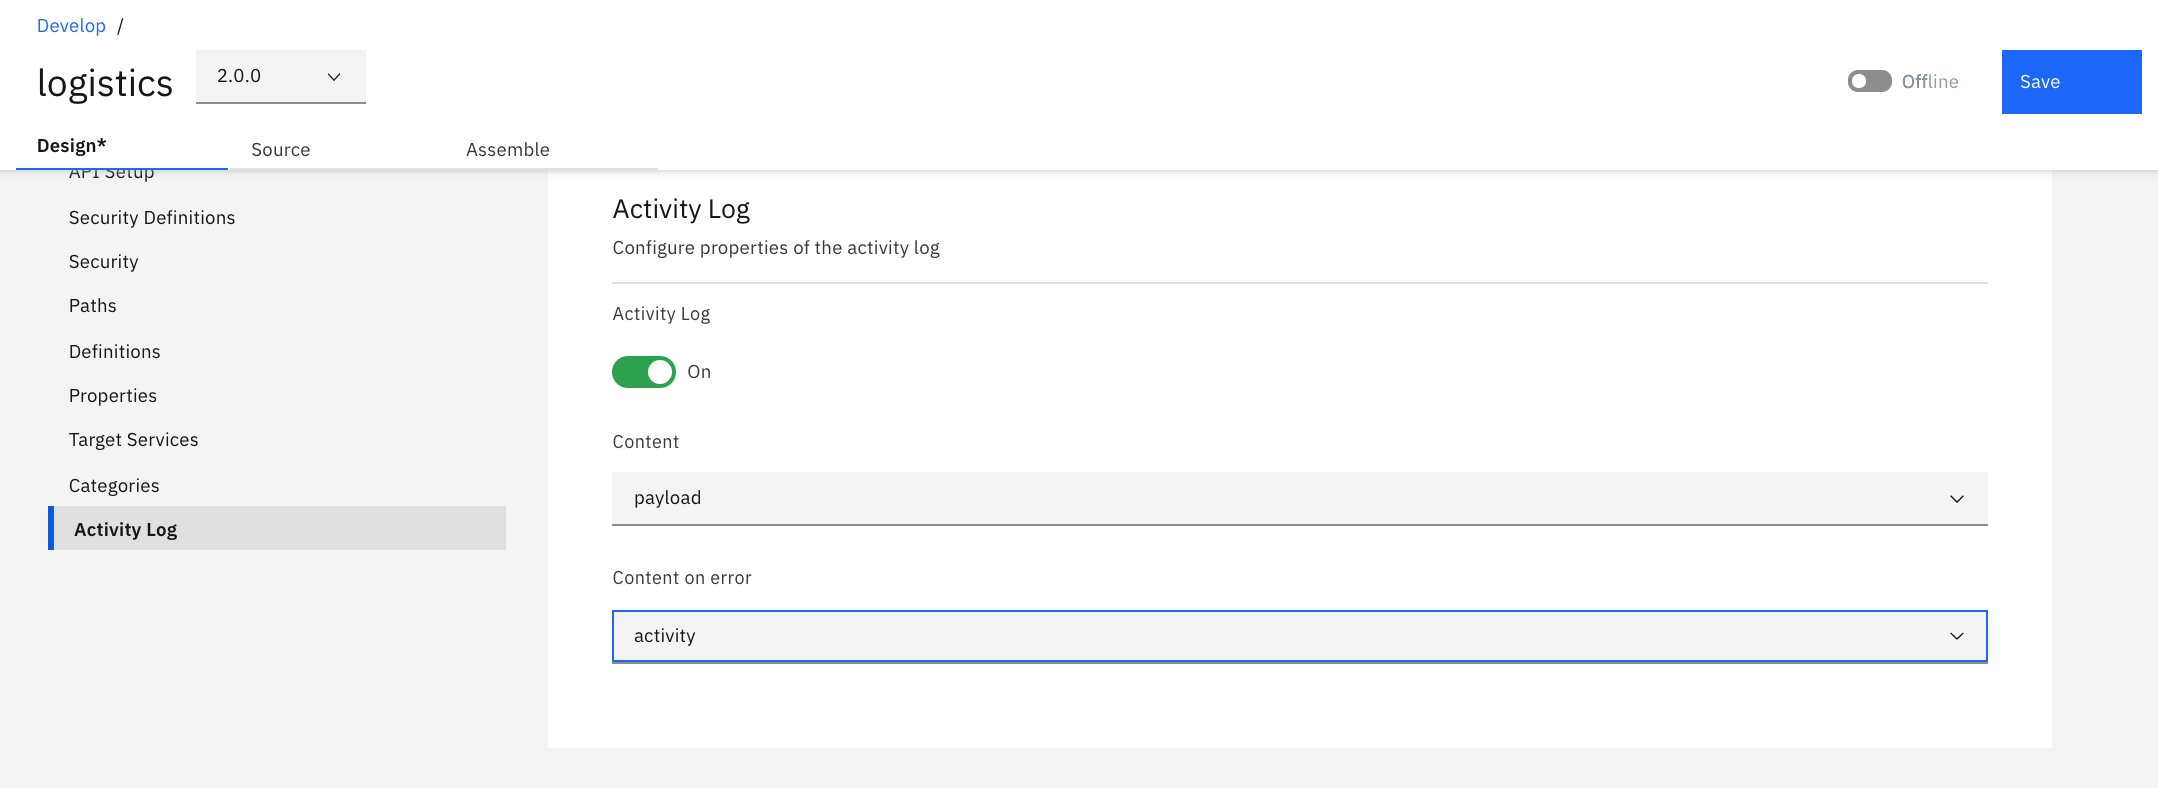
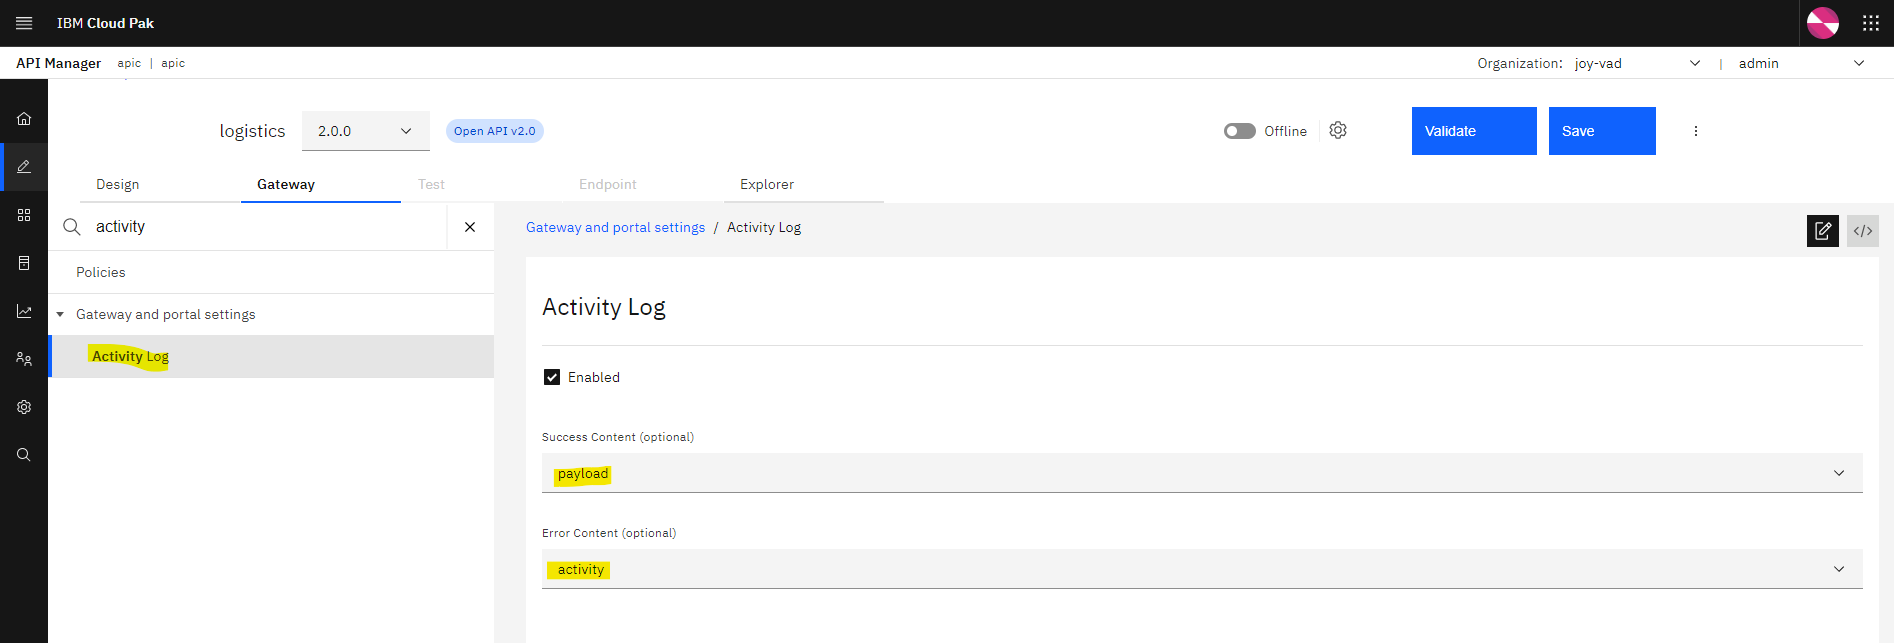
updated lab 5

diff --git a/instructions/Lab5/index.md b/instructions/Lab5/index.md
@@ -401,7 +401,7 @@ existing OpenAPI definition.
 1.  Click **[Add]** and
     select **[API.]**  
 
-    ![](images/tutorial_html_44524c2a518bf56e.png)
+    ![](images/tutorial_html_35bc8347ebf9f3c4.png)
 
 2.  From the Create API wizard, select [[Import: Existing
     OpenAPI]].
@@ -409,11 +409,10 @@ existing OpenAPI definition.
 	
 	![](images/tutorial_html_5515164592670a5f.png)
 
-3.  You will need logistics.yaml file for this step. Fron another browser window download the file using this link
-    [logistics.yaml](https://integrationsuperhero.github.io/techcon2020/APICDevJam/resources/logistics.yaml)
+3.  You will need logistics.yaml file for this step. From another browser window download the file using this link
+    [logistics.yaml](https://raw.githubusercontent.com/ibm-ecosystem-lab/APICv10/main/logistics.yaml)
 
-    Click \`**Browse**\` in the [[Import from
-    file]] window, and select the downloaded logistics.yaml file.
+    Drag/Drop or Browse the downloaded logistics.yaml file in the [[Import from file]] window.
 
     ![](images/tutorial_html_2ec43e484c5482b0.png)
 
@@ -433,18 +432,17 @@ existing OpenAPI definition.
  Configure payload to be stored in Analytics
 ---------------------------------------------------------------------------------------------------------------------------------------------------------------
 
-1.  From the API menu, select [[Activity
+1.  From the Gateway menu, search and select [[Activity
     Log]].
     In
-    the [[Content]] drop-down,
+    the [[Success Content]] drop-down,
     select [[payload]].
     A pop up window will be displayed, asking to enable buffering.
     Click [[Continue]].
 
     ![](images/tutorial_html_e8ffcd636704e49b.png)
 
-2.  Set the [[Content on
-    error]] drop-down
+2.  Set the [[Error Content]] drop-down
     to [[activity]].
     Click [[Save]].
 
@@ -463,7 +461,7 @@ consolidated response back to the consumer.
 -----------------------------------------------------------------------------------------------------------------------------------------------------
 
 1.  Switch to
-    the [[Assemble]] tab
+    the [[Policies]] view in Gateway tab
     and remove
     the [[invoke]] policy
     by hovering over it and selecting the [[trashcan
@@ -483,7 +481,7 @@ consolidated response back to the consumer.
 5.  Select
     the **[shipping.calc]** operation.
 
-6.  Click the **[+ Case]** button to add a
+6.  Click the **[Add Case]** button to add a
     second case for
     the [[get.stores]] operation.
 
@@ -541,7 +539,7 @@ consolidated message for our consumers.
         invoke\_cek]]
 
     -   [[URL:
-        \$(shipping\_svc\_url)?company=cek&from\_zip=90210&to\_zip= ]]
+        \$(shipping\_svc\_url)?company=cek&from\_zip=90210&to\_zip=\{zip\} ]]
 
     -   [[Response object variable:
         cek\_response]]  
@@ -557,7 +555,7 @@ consolidated message for our consumers.
 
 6.  Click
     the [[pencil]] at
-    the top of the Input column, then click on the [[+
+    the top of the Input column, then click on the [[Add
     input]] button.
     Enter the following input configuration:
 
@@ -573,7 +571,7 @@ consolidated message for our consumers.
     -   [[Definition:
         #/definitions/xyz_shipping_rsp]]
 
-7.  Click the [[+
+7.  Click the [[Add
     input]] button
     again to add another input. Specify the following input
     configuration:
@@ -622,8 +620,6 @@ consolidated message for our consumers.
     ![](images/tutorial_html_60e39f1d04c62b0b.png)
 
 15. Save your changes.
-
-    ![](images/tutorial_html_8eaea845d79feb97.png)
 
  Use GatewayScript in an Assembly
 =======================================================================================
